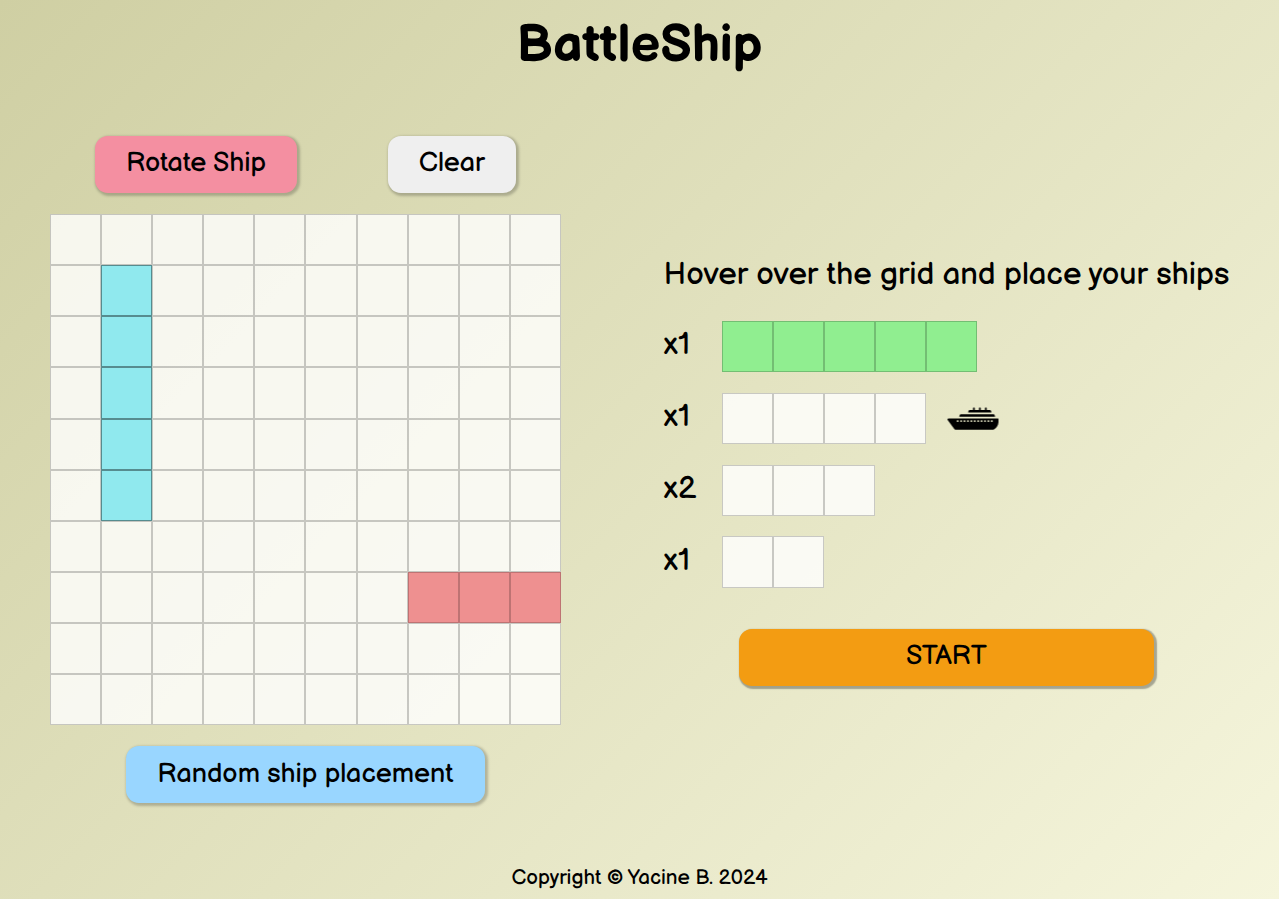
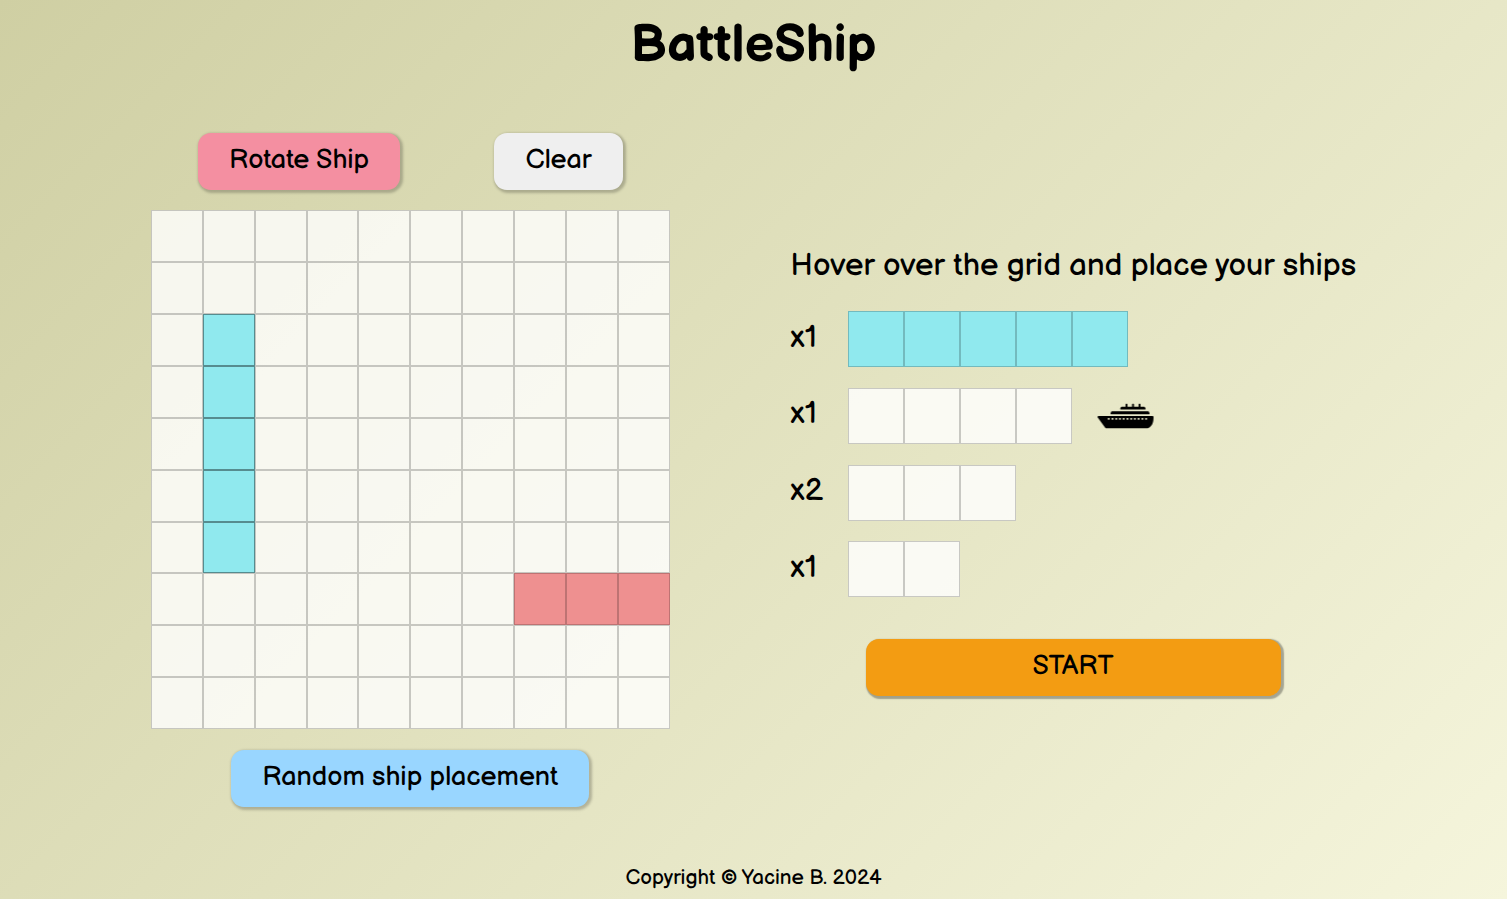
readme edit

diff --git a/src/styles.css b/src/styles.css
@@ -463,7 +463,7 @@ dialog[open] {
 }
 
 .placed-ship {
-  background-color: #90ee90 !important;
+  background-color: #90e9ee !important;
 }
 
 .shake {
